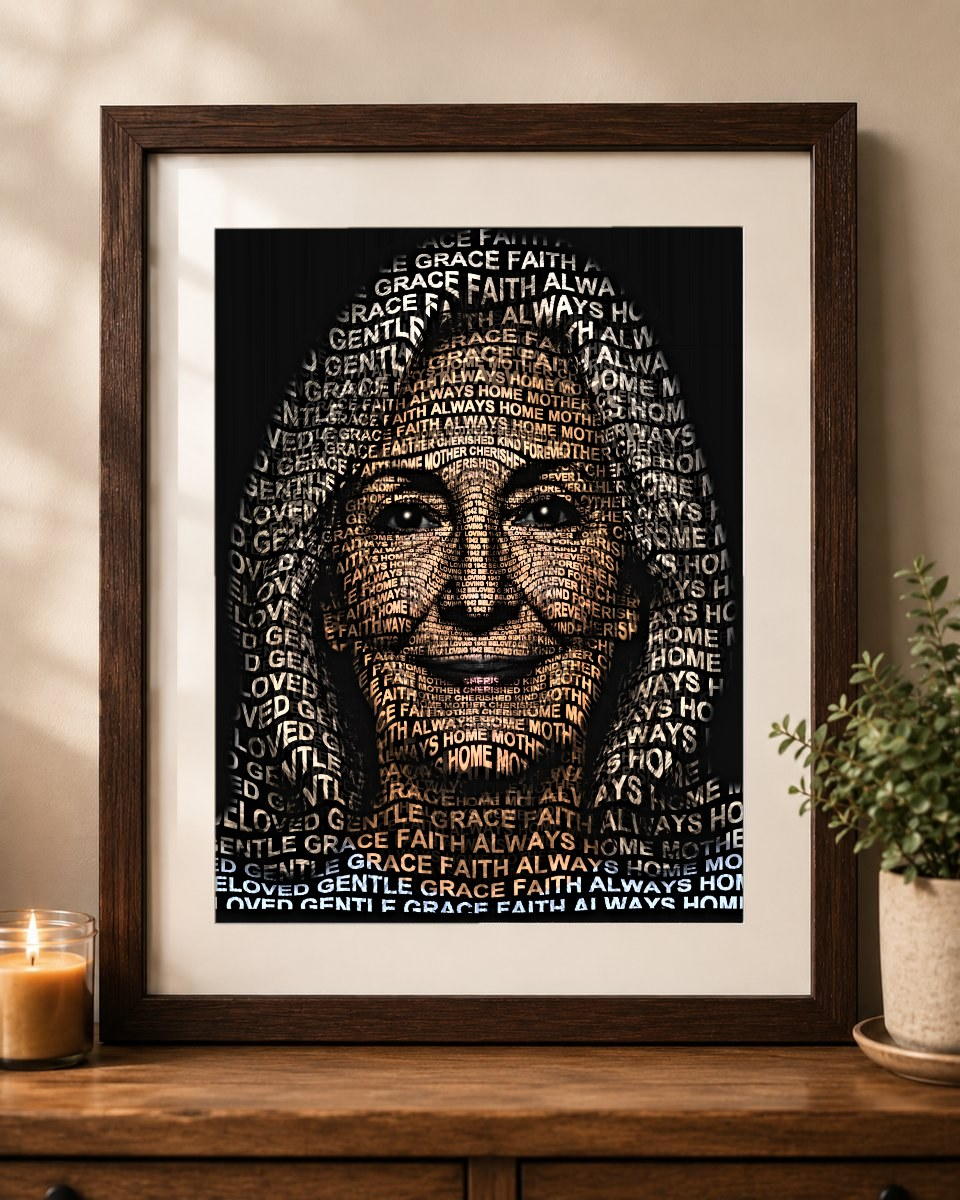
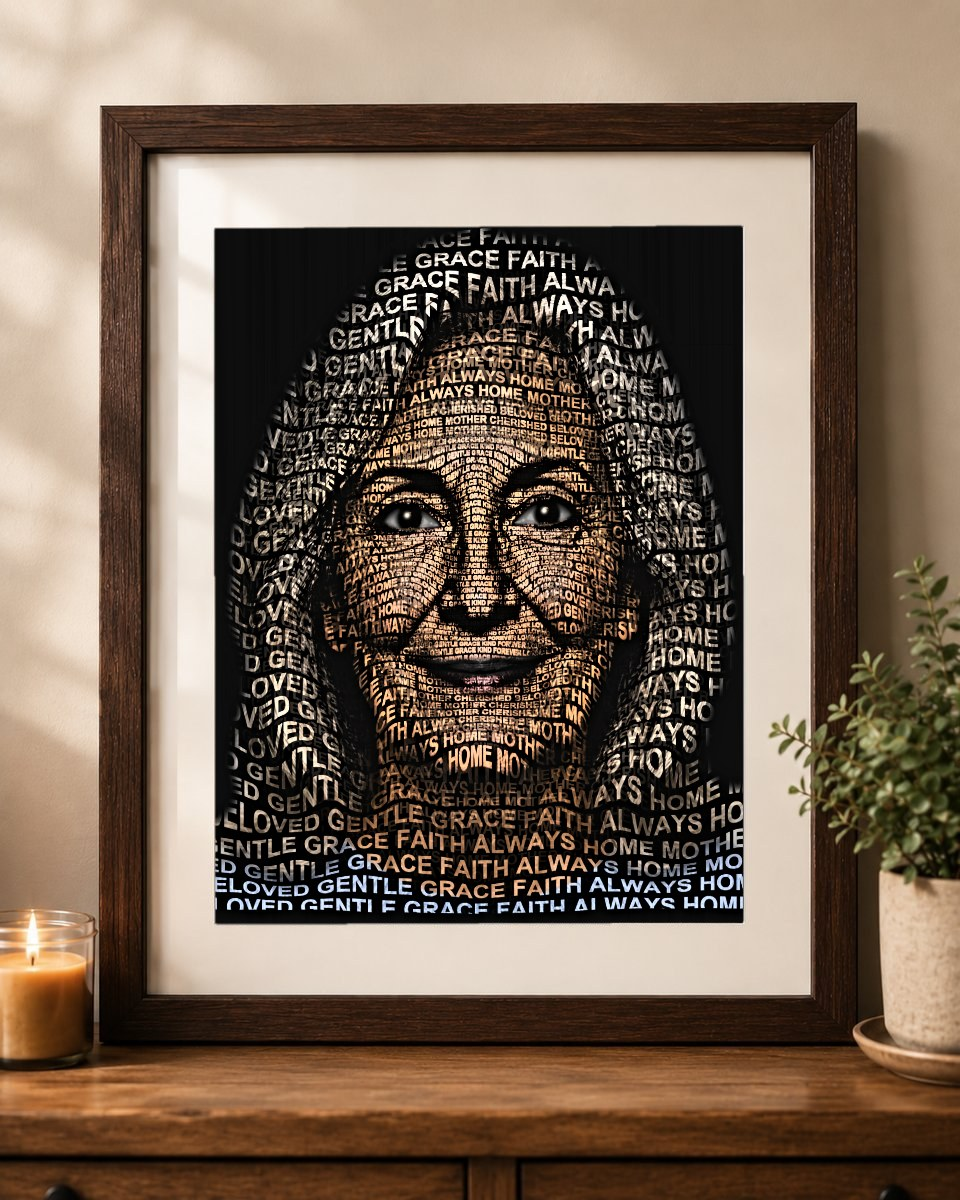
Marketing (typortrait.com): re-render all showcases with current engine
Re-rendered every Sculpt showcase through the improved engine -- natural eyes/
sclera, the focus-group pass (finer forehead, modeled nose/cheeks, quieter
clothing), and importance-weighted word frequency: hero, the three "every look"
samples, the three use-case portraits, the three framed mockups (re-composited),
and the two testimonial renders (Grandma/Poppy). Cache versions bumped to v=3
(hero + testimonial afters now versioned too).

Changed region(s): [[0.2188, 0.185, 0.7812, 0.7708]]

diff --git a/typography_engine/marketing/_deploy/index.html b/typography_engine/marketing/_deploy/index.html
@@ -12,7 +12,7 @@
 <meta name="robots" content="index,follow" />
 <meta name="p:domain_verify" content="f1db28b51e8847f102c978992b645d49"/>
 <meta name="theme-color" content="#faf9f7" />
-<link rel="preload" as="image" href="/hero-after.jpg" fetchpriority="high" />
+<link rel="preload" as="image" href="/hero-after.jpg?v=3" fetchpriority="high" />
 <link rel="icon" href="/favicon.ico" sizes="any" />
 <link rel="icon" type="image/png" sizes="32x32" href="/favicon-32.png" />
 <link rel="apple-touch-icon" href="/apple-touch-icon.png" />
@@ -265,7 +265,7 @@ footer a:hover{color:#fff}
 
       <figure class="hero-ba">
         <div class="ba-frame" id="baFrame" tabindex="0" role="slider" aria-label="Before and after — drag or use arrow keys to compare the photo with the Typortrait" aria-orientation="horizontal" aria-valuemin="0" aria-valuemax="100" aria-valuenow="50">
-          <img class="ba-after" id="baAfter" src="/hero-after.jpg" width="1100" height="1100" fetchpriority="high" decoding="async" alt="A Typortrait portrait composed entirely from the words below" />
+          <img class="ba-after" id="baAfter" src="/hero-after.jpg?v=3" width="1100" height="1100" fetchpriority="high" decoding="async" alt="A Typortrait portrait composed entirely from the words below" />
           <div class="ba-before-wrap" id="baBeforeWrap"><img class="ba-before" id="baBefore" src="/hero-before.jpg" width="1100" height="1100" fetchpriority="high" decoding="async" alt="The original photo, before Typortrait" /></div>
           <div class="ba-divider" id="baDivider"><span class="ba-knob">&#8596;</span></div>
           <span class="ba-tag ba-tag-l">Photo</span>
@@ -313,9 +313,9 @@ footer a:hover{color:#fff}
       <h2 class="statement">One photo, every look.</h2>
       <p class="support">The same face, a few different styles — for anniversaries, memorials, weddings, birthdays and more.</p>
       <div class="cards">
-        <figure class="shot"><button type="button" class="shot-btn js-zoom" data-full="/sample-1.jpg?v=2" aria-label="Enlarge sample — Navy, Sculpt style"><img src="/sample-1.jpg?v=2" width="720" height="720" loading="lazy" alt="Typortrait Sculpt portrait — navy, photographic word colour" /></button><figcaption>Navy &middot; Sculpt</figcaption></figure>
-        <figure class="shot"><button type="button" class="shot-btn js-zoom" data-full="/sample-2.jpg?v=2" aria-label="Enlarge sample — Ivory, Sculpt style"><img src="/sample-2.jpg?v=2" width="720" height="720" loading="lazy" alt="Typortrait Sculpt portrait — ivory ink-drawing on warm paper" /></button><figcaption>Ivory &middot; Sculpt</figcaption></figure>
-        <figure class="shot"><button type="button" class="shot-btn js-zoom" data-full="/sample-3.jpg?v=2" aria-label="Enlarge sample — Ember, Sculpt style"><img src="/sample-3.jpg?v=2" width="720" height="720" loading="lazy" alt="Typortrait Sculpt portrait — gold words on black" /></button><figcaption>Ember &middot; Sculpt</figcaption></figure>
+        <figure class="shot"><button type="button" class="shot-btn js-zoom" data-full="/sample-1.jpg?v=3" aria-label="Enlarge sample — Navy, Sculpt style"><img src="/sample-1.jpg?v=3" width="720" height="720" loading="lazy" alt="Typortrait Sculpt portrait — navy, photographic word colour" /></button><figcaption>Navy &middot; Sculpt</figcaption></figure>
+        <figure class="shot"><button type="button" class="shot-btn js-zoom" data-full="/sample-2.jpg?v=3" aria-label="Enlarge sample — Ivory, Sculpt style"><img src="/sample-2.jpg?v=3" width="720" height="720" loading="lazy" alt="Typortrait Sculpt portrait — ivory ink-drawing on warm paper" /></button><figcaption>Ivory &middot; Sculpt</figcaption></figure>
+        <figure class="shot"><button type="button" class="shot-btn js-zoom" data-full="/sample-3.jpg?v=3" aria-label="Enlarge sample — Ember, Sculpt style"><img src="/sample-3.jpg?v=3" width="720" height="720" loading="lazy" alt="Typortrait Sculpt portrait — gold words on black" /></button><figcaption>Ember &middot; Sculpt</figcaption></figure>
       </div>
       <div class="actions" style="margin-top:40px"><a class="button" href="https://app.typortrait.com">Make one like this</a></div>
     </div>
@@ -328,22 +328,22 @@ footer a:hover{color:#fff}
       <p class="support">A keepsake built from the words that define someone — for the people and milestones you’ll never forget.</p>
       <div class="cards">
         <article class="use-card">
-          <button type="button" class="use-shot js-zoom" data-full="/use-children.jpg?v=2" aria-label="Enlarge a Children word-art portrait">
-            <img src="/use-children.jpg?v=2" width="720" height="720" loading="lazy" alt="Typortrait word-art portrait of a child" onerror="this.closest('.use-shot').classList.add('noimg')" />
+          <button type="button" class="use-shot js-zoom" data-full="/use-children.jpg?v=3" aria-label="Enlarge a Children word-art portrait">
+            <img src="/use-children.jpg?v=3" width="720" height="720" loading="lazy" alt="Typortrait word-art portrait of a child" onerror="this.closest('.use-shot').classList.add('noimg')" />
             <span class="ph"><b>Children render</b>use-children.jpg</span>
           </button>
           <div class="use-body"><h3>Children</h3><p>Capture their sweetness, spirit and personality in the words you’d use to describe them.</p></div>
         </article>
         <article class="use-card">
-          <button type="button" class="use-shot js-zoom" data-full="/use-memorial.jpg?v=2" aria-label="Enlarge a Memorial word-art portrait">
-            <img src="/use-memorial.jpg?v=2" width="720" height="720" loading="lazy" alt="Typortrait word-art memorial portrait" onerror="this.closest('.use-shot').classList.add('noimg')" />
+          <button type="button" class="use-shot js-zoom" data-full="/use-memorial.jpg?v=3" aria-label="Enlarge a Memorial word-art portrait">
+            <img src="/use-memorial.jpg?v=3" width="720" height="720" loading="lazy" alt="Typortrait word-art memorial portrait" onerror="this.closest('.use-shot').classList.add('noimg')" />
             <span class="ph"><b>Memorial render</b>use-memorial.jpg</span>
           </button>
           <div class="use-body"><h3>Memorials</h3><p>Honor someone special with the words that shaped their life — a portrait that speaks.</p></div>
         </article>
         <article class="use-card">
-          <button type="button" class="use-shot js-zoom" data-full="/use-graduate.jpg?v=2" aria-label="Enlarge a Graduate word-art portrait">
-            <img src="/use-graduate.jpg?v=2" width="720" height="720" loading="lazy" alt="Typortrait word-art portrait of a graduate" onerror="this.closest('.use-shot').classList.add('noimg')" />
+          <button type="button" class="use-shot js-zoom" data-full="/use-graduate.jpg?v=3" aria-label="Enlarge a Graduate word-art portrait">
+            <img src="/use-graduate.jpg?v=3" width="720" height="720" loading="lazy" alt="Typortrait word-art portrait of a graduate" onerror="this.closest('.use-shot').classList.add('noimg')" />
             <span class="ph"><b>Graduate render</b>use-graduate.jpg</span>
           </button>
           <div class="use-body"><h3>Graduates</h3><p>A personal gift that celebrates who they are and who they’re becoming.</p></div>
@@ -359,22 +359,22 @@ footer a:hover{color:#fff}
       <p class="support">Order your portrait as a framed print, gallery canvas, poster or tee — printed and shipped worldwide, from $29.</p>
       <div class="cards">
         <article class="use-card">
-          <button type="button" class="use-shot print-shot js-zoom" data-full="/mock-children.jpg?v=2" aria-label="Enlarge a framed Children word-art print">
-            <img src="/mock-children.jpg?v=2" width="900" height="1125" loading="lazy" alt="Framed word-art portrait of a child, matted in a light-oak frame on a wall" onerror="this.closest('.use-shot').classList.add('noimg')" />
+          <button type="button" class="use-shot print-shot js-zoom" data-full="/mock-children.jpg?v=3" aria-label="Enlarge a framed Children word-art print">
+            <img src="/mock-children.jpg?v=3" width="900" height="1125" loading="lazy" alt="Framed word-art portrait of a child, matted in a light-oak frame on a wall" onerror="this.closest('.use-shot').classList.add('noimg')" />
             <span class="ph"><b>Children mockup</b>mock-children.jpg</span>
           </button>
           <div class="use-body"><h3>Children</h3><p class="words">Words like <b>joy &middot; brave &middot; curious &middot; sunshine &middot; silly &middot; loved</b></p></div>
         </article>
         <article class="use-card">
-          <button type="button" class="use-shot print-shot js-zoom" data-full="/mock-memorial.jpg?v=2" aria-label="Enlarge a framed Memorial word-art print">
-            <img src="/mock-memorial.jpg?v=2" width="900" height="1125" loading="lazy" alt="Framed word-art memorial portrait, matted in a walnut frame on a console" onerror="this.closest('.use-shot').classList.add('noimg')" />
+          <button type="button" class="use-shot print-shot js-zoom" data-full="/mock-memorial.jpg?v=3" aria-label="Enlarge a framed Memorial word-art print">
+            <img src="/mock-memorial.jpg?v=3" width="900" height="1125" loading="lazy" alt="Framed word-art memorial portrait, matted in a walnut frame on a console" onerror="this.closest('.use-shot').classList.add('noimg')" />
             <span class="ph"><b>Memorial mockup</b>mock-memorial.jpg</span>
           </button>
           <div class="use-body"><h3>Memorials</h3><p class="words">Words like <b>beloved &middot; gentle &middot; grace &middot; faith &middot; always &middot; home</b></p></div>
         </article>
         <article class="use-card">
-          <button type="button" class="use-shot print-shot js-zoom" data-full="/mock-graduate.jpg?v=2" aria-label="Enlarge a framed Graduate word-art print">
-            <img src="/mock-graduate.jpg?v=2" width="900" height="1125" loading="lazy" alt="Framed word-art portrait of a graduate, matted in a black frame on a desk" onerror="this.closest('.use-shot').classList.add('noimg')" />
+          <button type="button" class="use-shot print-shot js-zoom" data-full="/mock-graduate.jpg?v=3" aria-label="Enlarge a framed Graduate word-art print">
+            <img src="/mock-graduate.jpg?v=3" width="900" height="1125" loading="lazy" alt="Framed word-art portrait of a graduate, matted in a black frame on a desk" onerror="this.closest('.use-shot').classList.add('noimg')" />
             <span class="ph"><b>Graduate mockup</b>mock-graduate.jpg</span>
           </button>
           <div class="use-body"><h3>Graduates</h3><p class="words">Words like <b>dream &middot; ambition &middot; future &middot; bold &middot; ready &middot; achieve</b></p></div>
@@ -407,7 +407,7 @@ footer a:hover{color:#fff}
       <div class="tstx-grid">
         <figure class="tstx-card">
           <div class="tba" style="--p:55%">
-            <img class="tba-after" src="/tst-grandma-after.jpg" width="880" height="1100" loading="lazy" alt="A Lifelike word-portrait of a grandmother, made from the words that describe her" />
+            <img class="tba-after" src="/tst-grandma-after.jpg?v=3" width="880" height="1100" loading="lazy" alt="A Lifelike word-portrait of a grandmother, made from the words that describe her" />
             <div class="tba-before"><img src="/tst-grandma-before.jpg" width="880" height="1100" loading="lazy" alt="The original photo of a grandmother" /></div>
             <span class="tba-tag l">Photo</span><span class="tba-tag r">In words</span>
             <div class="tba-line"></div><div class="tba-grip">&#8596;</div>
@@ -419,7 +419,7 @@ footer a:hover{color:#fff}
         </figure>
         <figure class="tstx-card">
           <div class="tba" style="--p:55%">
-            <img class="tba-after" src="/tst-poppy-after.jpg" width="880" height="1100" loading="lazy" alt="A Lifelike word-portrait of a grandfather, made from the words that describe him" />
+            <img class="tba-after" src="/tst-poppy-after.jpg?v=3" width="880" height="1100" loading="lazy" alt="A Lifelike word-portrait of a grandfather, made from the words that describe him" />
             <div class="tba-before"><img src="/tst-poppy-before.jpg" width="880" height="1100" loading="lazy" alt="The original photo of a grandfather" /></div>
             <span class="tba-tag l">Photo</span><span class="tba-tag r">In words</span>
             <div class="tba-line"></div><div class="tba-grip">&#8596;</div>
